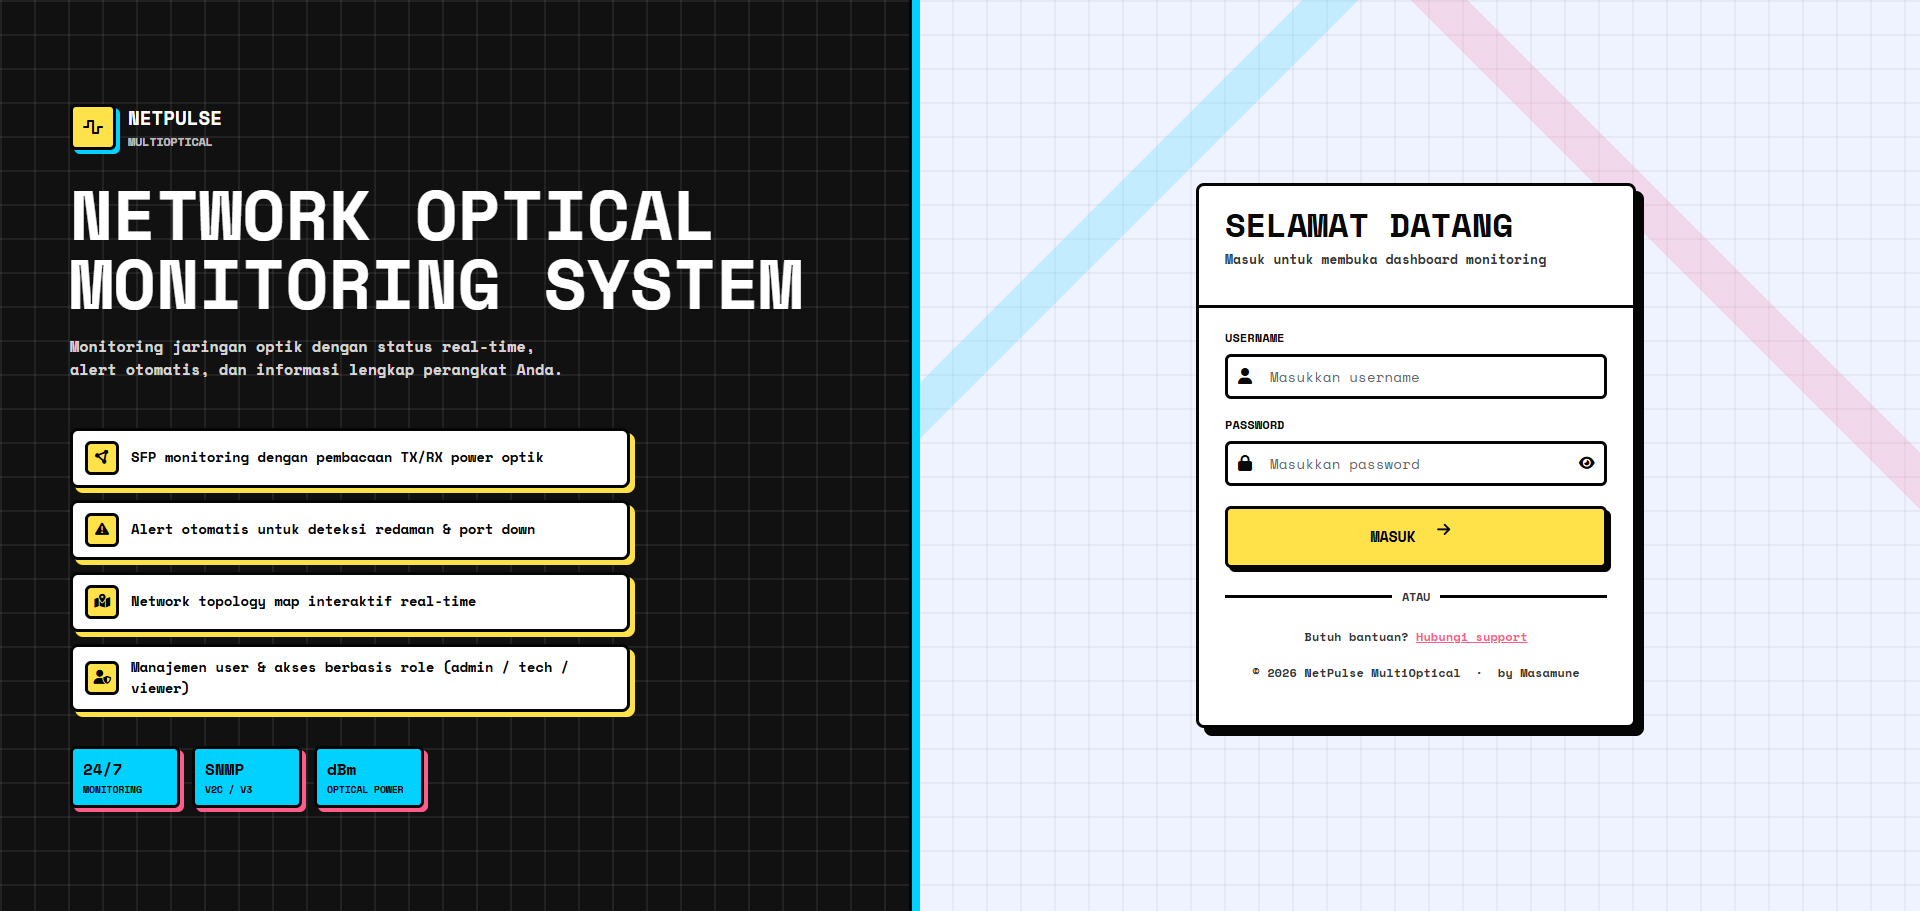
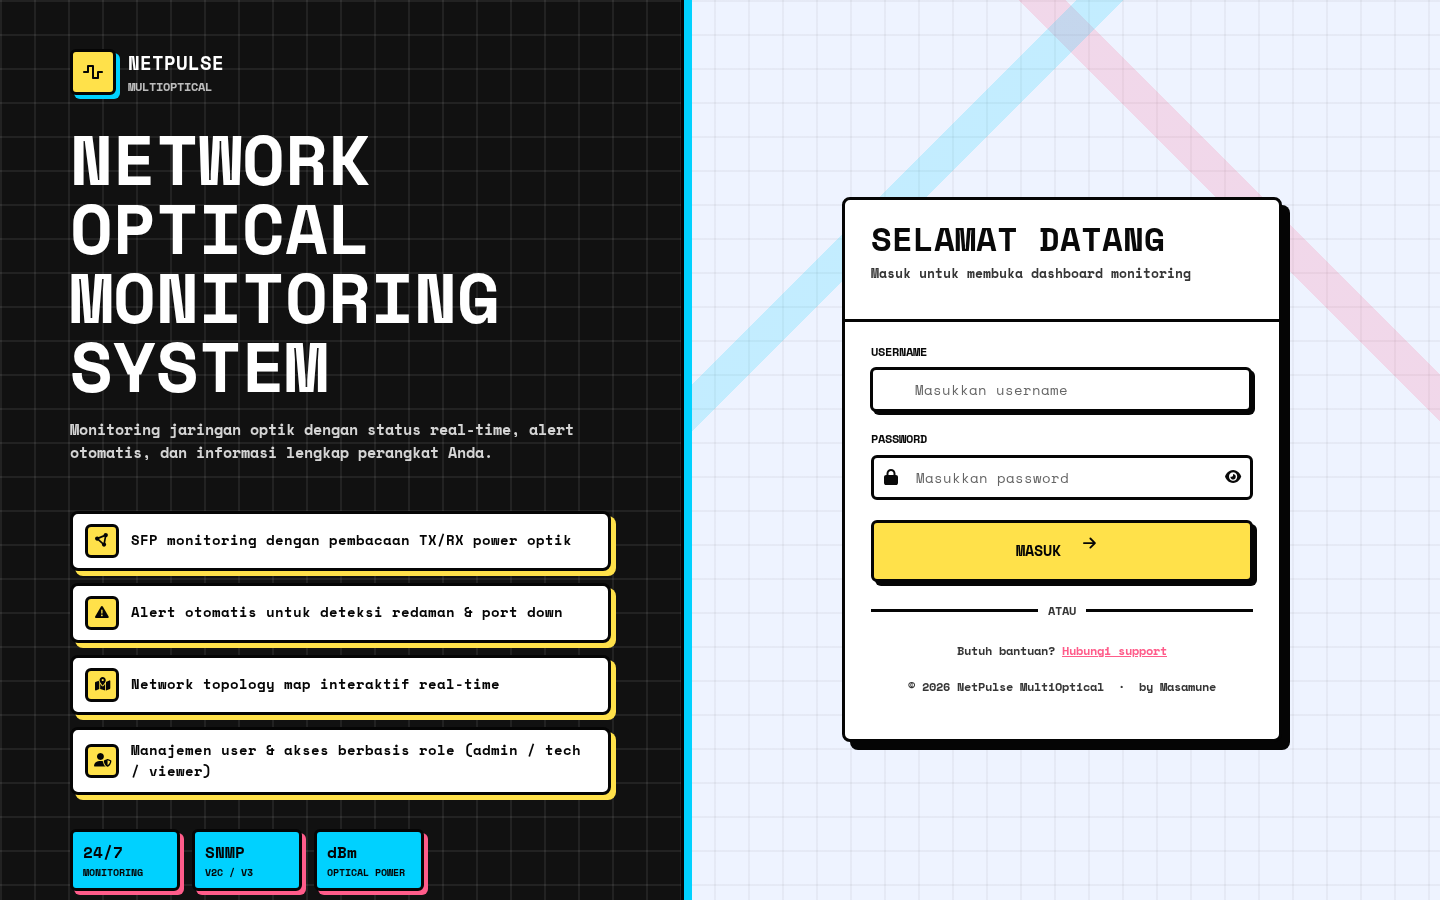
docs: README berbahasa Inggris untuk repo publik, lisensi CC BY-NC 4.0

Changed region(s): [[0.4688, 0.0, 1.0, 0.84], [0.0312, 0.4667, 0.4375, 0.9956], [0.0312, 0.0622, 0.4375, 0.4356]]

diff --git a/README.md b/README.md
@@ -1,53 +1,65 @@
+<div align="center">
+
 # NetPulse MultiOptical
 
-NetPulse MultiOptical adalah platform monitoring jaringan optik/SFP untuk workflow NOC/ISP. Project ini berisi Laravel web dashboard, legacy web API, REST API v1 untuk Flutter mobile app, polling SNMP, alert log, Telegram alert, FCM push notification, dan interactive network map.
+**Fiber-optic network monitoring for ISP and NOC teams.**
+SFP optical power (DDM), interface status, SLA reporting, an interactive network map,
+and instant alerts — on the web and on Android.
 
-Dokumentasi lengkap ada di:
+![Laravel](https://img.shields.io/badge/Laravel-12-FF2D20?style=flat-square&logo=laravel&logoColor=white)
+![PHP](https://img.shields.io/badge/PHP-8.2%2B-777BB4?style=flat-square&logo=php&logoColor=white)
+![MariaDB](https://img.shields.io/badge/MariaDB%20%2F%20MySQL-supported-003545?style=flat-square&logo=mariadb&logoColor=white)
+![Flutter](https://img.shields.io/badge/Flutter-Android-02569B?style=flat-square&logo=flutter&logoColor=white)
+![License](https://img.shields.io/badge/license-CC%20BY--NC%204.0-lightgrey?style=flat-square)
 
-- [docs/NETPULSE_DOCUMENTATION.md](docs/NETPULSE_DOCUMENTATION.md)
+![NetPulse MultiOptical login screen](public/assets/img/loginpage.png)
 
-## Tampilan Login
+</div>
 
-![Login page NetPulse MultiOptical](public/assets/img/loginpage.png)
+---
 
-## Fitur Utama
+## Why NetPulse
 
-- Dashboard KPI device/interface/SFP/alert/user.
-- Monitoring optical RX/TX/loss dengan chart history.
-- Device management dan interface discovery via SNMP.
-- Support optical polling untuk MikroTik dan Huawei.
-- Network map dengan node, link, status link, path editing, dan detail interface.
-- Alert log Web UI, Telegram alert, dan FCM push notification.
-- Role-based access: `admin`, `technician`, `viewer`.
-- Flutter Android app versi `2.0.0+2`.
+Fiber links rarely fail all at once. Optical power drifts for days before a port goes dark.
+NetPulse polls your switches and routers over SNMP every minute, records the RX/TX power of
+every SFP, and tells you **before** a degrading link turns into an outage — while also giving
+you the uptime numbers you need for SLA reports.
 
-## Stack
+## Features
 
-- Laravel 11, PHP 8.2+
-- Blade, vanilla JavaScript, Chart.js, Leaflet
-- MySQL/MariaDB
-- PHP SNMP extension
-- Flutter Android app
-- Firebase Cloud Messaging HTTP v1
+| | |
+|---|---|
+| **Optical monitoring** | RX/TX power, loss and temperature per SFP, with history charts from 1 hour up to 1 year. |
+| **Interface status** | Up/down state of every interface, traffic history, and per-interface thresholds. |
+| **Degradation detection** | A daily job flags links whose optical power is trending down, before they fail. |
+| **SLA reports** | Availability per device and interface for any period, exportable to CSV and PDF. |
+| **Network map** | Leaflet map of nodes and links, with live link status, editable paths and a lock mode. |
+| **Alerts** | Web UI alert log, Telegram notifications and Firebase push to the mobile app, with maintenance-window mutes per device (or globally). |
+| **Discovery** | SNMP interface discovery, including the Huawei optical module MIBs (ENTITY-MIB + HUAWEI-ENTITY-EXTENT-MIB); MikroTik is supported too. |
+| **Roles** | `admin`, `technician` and `viewer`. Viewers only ever see demo data. |
+| **Android app** | Flutter app for dashboards, monitoring, the map and push alerts. |
 
-## Struktur Singkat
+## Tech stack
 
-| Path | Fungsi |
-| --- | --- |
-| `app/Http/Controllers` | Controller web dan legacy web API. |
-| `app/Http/Controllers/Api/V1` | REST API v1 untuk mobile. |
-| `app/Services/InterfaceDiscovery.php` | SNMP discovery, polling, alert. |
-| `app/Console/Commands/PollInterfaces.php` | Command `poll:interfaces`. |
-| `routes/web.php` | Web page dan legacy `/api/*`. |
-| `routes/api.php` | Mobile `/api/v1/*`. |
-| `resources/views` | Blade UI. |
-| `public/assets` | CSS/JS web UI. |
-| `mobile/` | Flutter Android app. |
-| `scripts/cron/laravel_schedule_run.sh` | Cron wrapper Laravel scheduler. |
+- **Backend:** Laravel 12 (PHP 8.2+), MariaDB or MySQL, PHP SNMP extension
+- **Web UI:** Blade, vanilla JavaScript, Chart.js, Leaflet
+- **Mobile:** Flutter (Android), Firebase Cloud Messaging HTTP v1
+- **PDF export:** barryvdh/laravel-dompdf
 
-## Backend Quick Start
+## Getting started
+
+### Requirements
+
+- PHP 8.2 or newer with the `snmp`, `pdo_mysql`, `mbstring` and `xml` extensions
+- Composer 2, Node.js (only if you rebuild front-end assets)
+- MariaDB 10.6+ or MySQL 8
+- SNMP v2c read access to the devices you want to monitor
+
+### Install
 
 ```bash
+git clone <this-repository-url> netpulse
+cd netpulse
 composer install
 cp .env.example .env
 php artisan key:generate
@@ -55,126 +67,54 @@ php artisan migrate
 php artisan serve
 ```
 
-Contoh `.env` MySQL:
+Point `.env` at your database:
 
 ```env
 APP_NAME="NetPulse MultiOptical"
-APP_URL=http://localhost
+APP_URL=https://netpulse.example.com
 
 DB_CONNECTION=mysql
 DB_HOST=127.0.0.1
 DB_PORT=3306
 DB_DATABASE=netpulse
 DB_USERNAME=netpulse
-DB_PASSWORD=secret
-
-SESSION_DRIVER=database
-QUEUE_CONNECTION=database
-CACHE_STORE=database
+DB_PASSWORD=change-me
 ```
 
-Catatan instalasi database:
+> NetPulse can run on top of an existing monitoring database. The core tables it expects are
+> `users`, `snmp_devices`, `interfaces`, `interface_stats` and `settings`; the migrations in this
+> repository add the supporting tables (sessions, cache, jobs, alert logs, API tokens, device
+> tokens, rollups). See [docs/NETPULSE_DOCUMENTATION.md](docs/NETPULSE_DOCUMENTATION.md#database).
 
-- Aplikasi ini dapat berjalan di atas database monitoring existing.
-- Tabel inti yang dibutuhkan: `users`, `snmp_devices`, `interfaces`, `interface_stats`, `settings`.
-- Migration repo membuat tabel pendukung seperti session/cache/job, alert log, API token, device token, dan lokasi user.
-- Detail schema dan deployment ada di [docs/NETPULSE_DOCUMENTATION.md](docs/NETPULSE_DOCUMENTATION.md#database).
+### Scheduler
 
-## Web UI
-
-Halaman utama:
-
-- `/login`
-- `/dashboard`
-- `/monitoring`
-- `/devices`
-- `/map`
-- `/users`
-- `/settings`
-
-Legacy API untuk web UI berada di `/api/*`, misalnya:
-
-- `GET /api/devices`
-- `GET /api/interfaces?device_id=1`
-- `GET /api/interface_chart?device_id=1&if_index=2&range=1h`
-- `GET|POST /api/settings`
-- `GET /api/alert_logs`
-
-## Mobile API v1
-
-Base path:
-
-```text
-/api/v1
-```
-
-Endpoint utama:
-
-- `POST /api/v1/auth/login`
-- `POST /api/v1/auth/logout`
-- `GET /api/v1/dashboard`
-- `GET /api/v1/monitoring/devices`
-- `GET /api/v1/monitoring/interfaces`
-- `GET /api/v1/monitoring/chart`
-- `GET /api/v1/map/nodes`
-- `GET /api/v1/map/links`
-- `GET /api/v1/alert-logs`
-- `POST /api/v1/device-token`
-- `POST /api/v1/location`
-- `GET|POST /api/v1/alert-preferences`
-
-Authenticated endpoint memakai header:
-
-```http
-Authorization: Bearer <token>
-```
-
-## Scheduler dan Polling
-
-Laravel scheduler menjalankan polling setiap menit:
-
-```php
-Schedule::command('poll:interfaces')->everyMinute()->withoutOverlapping();
-```
-
-Command manual:
-
-```bash
-php artisan poll:interfaces
-php artisan poll:interfaces --device=1
-php artisan schedule:list
-```
-
-Cron production:
+All polling runs through the Laravel scheduler. Add one cron entry:
 
 ```cron
-* * * * * /var/www/NetpulseMultiOptical/scripts/cron/laravel_schedule_run.sh
+* * * * * cd /path/to/netpulse && php artisan schedule:run >> /dev/null 2>&1
 ```
 
-Log scheduler:
+| Command | Schedule | Purpose |
+|---|---|---|
+| `poll:interfaces` | every minute | SNMP poll of all devices, stats and alerts |
+| `stats:rollup` | hourly | Aggregate raw samples into hourly rollups |
+| `stats:prune` | daily 03:30 | Delete raw samples past their retention |
+| `optical:degradation` | daily 06:00 | Detect links with declining optical power |
 
-```text
-storage/logs/schedule-run.log
-```
+Run a poll by hand with `php artisan poll:interfaces` (or `--device=<id>` for one device).
 
-## Settings Penting
+### Push notifications (optional)
 
-Settings disimpan di tabel `settings`:
-
-- Telegram: `bot_token`, `chat_id`
-- Alert channel: `alert_telegram_enabled`, `alert_webui_enabled`
-- Alert event: `alert_interface_down`, `alert_interface_up`, `alert_interface_warning`, `alert_device_down`, `alert_device_up`
-- RX threshold: `alert_rx_warning_high`, `alert_rx_warning_low`, `alert_rx_down_threshold`
-- Theme: `theme`, `primary_color`, `primary_soft`
-- Mobile push preference: `mobile_alert_pref_user_<id>`
-
-Untuk FCM backend, set env:
+Point the backend at a Firebase service account and keep the file outside the web root:
 
 ```env
-FIREBASE_SERVICE_ACCOUNT_JSON=/path/to/firebase-service-account.json
+FIREBASE_SERVICE_ACCOUNT_JSON=/secure/path/firebase-service-account.json
 ```
 
-## Mobile App
+Telegram alerts are configured from **Settings** in the web UI (bot token and chat ID are
+encrypted at rest).
+
+## Mobile app
 
 ```bash
 cd mobile
@@ -182,28 +122,66 @@ flutter pub get
 flutter build apk --debug
 ```
 
-Output:
+For release builds, provide your own signing key through `mobile/android/key.properties`
+or the `NETPULSE_KEY_PROPERTIES` environment variable — the release build refuses to fall back
+to the debug key. Add your own `mobile/android/app/google-services.json` for push notifications.
+Neither file belongs in version control.
 
-```text
-mobile/build/app/outputs/flutter-apk/app-debug.apk
-```
+## API
 
-Firebase Android file lokal:
+The Android app talks to a token-authenticated REST API under `/api/v1`
+(`Authorization: Bearer <token>`; tokens are stored hashed and expire after 90 days).
 
-```text
-mobile/android/app/google-services.json
-```
+| Method | Endpoint | Description |
+|---|---|---|
+| `POST` | `/api/v1/auth/login` · `/auth/logout` | Obtain or revoke a token |
+| `GET` | `/api/v1/dashboard` | KPI summary |
+| `GET` | `/api/v1/monitoring/devices` · `/interfaces` · `/chart` | Optical monitoring data |
+| `GET` | `/api/v1/interfaces` · `/interfaces/traffic-history` | Interface list and traffic |
+| `GET` | `/api/v1/map/nodes` · `/map/links` | Network map |
+| `GET` `DELETE` | `/api/v1/alert-logs` | Alert history |
+| `GET` `POST` | `/api/v1/alert-preferences` · `/settings` | Per-user preferences |
+| `POST` | `/api/v1/device-token` · `/location` · `/push/test` | Push registration and test |
 
-File secret Firebase tidak boleh di-commit.
+The web UI uses a separate session-authenticated API under `/api/*`.
+Full reference: [docs/NETPULSE_DOCUMENTATION.md](docs/NETPULSE_DOCUMENTATION.md).
 
-## Verifikasi
+## Testing
 
 ```bash
-php artisan route:list
-php artisan schedule:list
-php artisan test
+composer test        # or: bash scripts/test.sh
 ```
+
+Always use the wrapper. It forces an in-memory SQLite database and refuses to run if the
+connection resolves to anything else, so a cached production config can never point the
+test suite at a live database.
+
+## Security
+
+- Login is rate-limited per user and per IP; error messages do not reveal whether a user exists.
+- SNMP communities and bot tokens are encrypted at rest and never returned by the API.
+- Changing a user's password, role or status revokes all of their API tokens.
+- Everything rendered from device data (names, interface aliases) is HTML-escaped.
+
+Found a vulnerability? Please report it privately through
+[GitHub Security Advisories](../../security/advisories/new) instead of opening a public issue.
+
+## Project layout
+
+| Path | Contents |
+|---|---|
+| `app/Http/Controllers` | Web pages and the session-based web API |
+| `app/Http/Controllers/Api/V1` | Mobile REST API |
+| `app/Services/InterfaceDiscovery.php` | SNMP discovery, polling and alerting |
+| `app/Console/Commands` | Scheduled commands (polling, rollups, pruning, degradation) |
+| `resources/views`, `public/assets` | Blade templates, CSS and JavaScript |
+| `mobile/` | Flutter Android app |
+| `docs/` | Full documentation and the Huawei optical OID map |
 
 ## License
 
-MIT
+[Creative Commons Attribution-NonCommercial 4.0 International](LICENSE) (CC BY-NC 4.0).
+Free to use, study and adapt for non-commercial purposes with attribution. For commercial use,
+please get in touch first.
+
+Built by Masamune for PT Berkah Media Kusuma Vision.

diff --git a/WORKLOG.md b/WORKLOG.md
@@ -4,6 +4,18 @@ Sistem pemantauan status antarmuka fiber optik, redaman/DDM optical power, dan S
 
 ---
 
+## 2026-09-24 — Docs: README ditulis ulang dalam bahasa Inggris
+
+- **Changed**: `README.md` ditulis ulang dalam bahasa Inggris untuk repo publik — ringkasan, tabel fitur
+  (monitoring optik, status interface, deteksi degradasi, SLA + ekspor CSV/PDF, peta, alert, discovery,
+  peran, aplikasi Android), stack, instalasi, tabel jadwal scheduler (`poll:interfaces`, `stats:rollup`,
+  `stats:prune`, `optical:degradation`), push, build APK dengan kunci sendiri, tabel API v1, test aman,
+  bagian keamanan + pelaporan kerentanan lewat GitHub Security Advisories, tata letak projek.
+- **Fixed**: README lama menyebut lisensi **MIT**, padahal `LICENSE` berisi **CC BY-NC 4.0** — kini
+  disamakan. Versi yang usang (Laravel 11, app 2.0.0+2) dan perintah `php artisan test` polos dihapus.
+- **Changed**: `public/assets/img/loginpage.png` diganti tangkapan layar halaman login yang sekarang
+  (halaman publik, tanpa data). Tidak ada host internal, IP, atau kredensial di README.
+
 ## 2026-09-24 — Tindak Lanjut Keamanan: CSP Ditegakkan, Verifikasi Browser, Cache Root
 
 - **Changed (server, di luar repo)**: CSP di `snippets/netpulse-headers.conf` diubah dari
